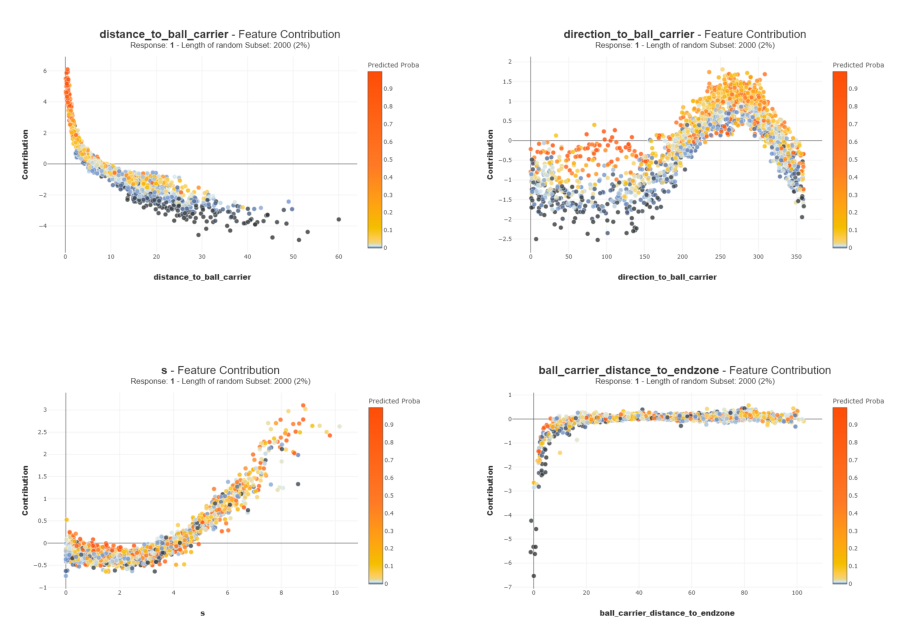
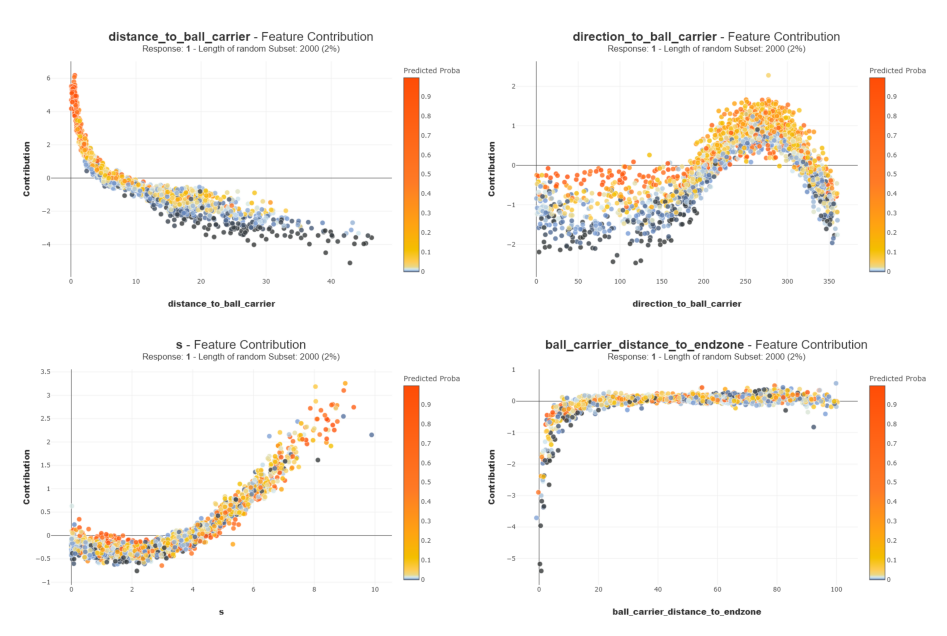
Less white space in explainer figures.

diff --git a/src/expected_tackling/visualization/explainer.py b/src/expected_tackling/visualization/explainer.py
@@ -49,5 +49,5 @@ class Explainer:
             axes[x, y].imshow(np.array(image))
             axes[x, y].set_axis_off()
 
-        plt.subplots_adjust(wspace=0)
+        plt.subplots_adjust(wspace=0, hspace=0)
         plt.savefig(figures_path + f"/{name}.png", bbox_inches="tight")
